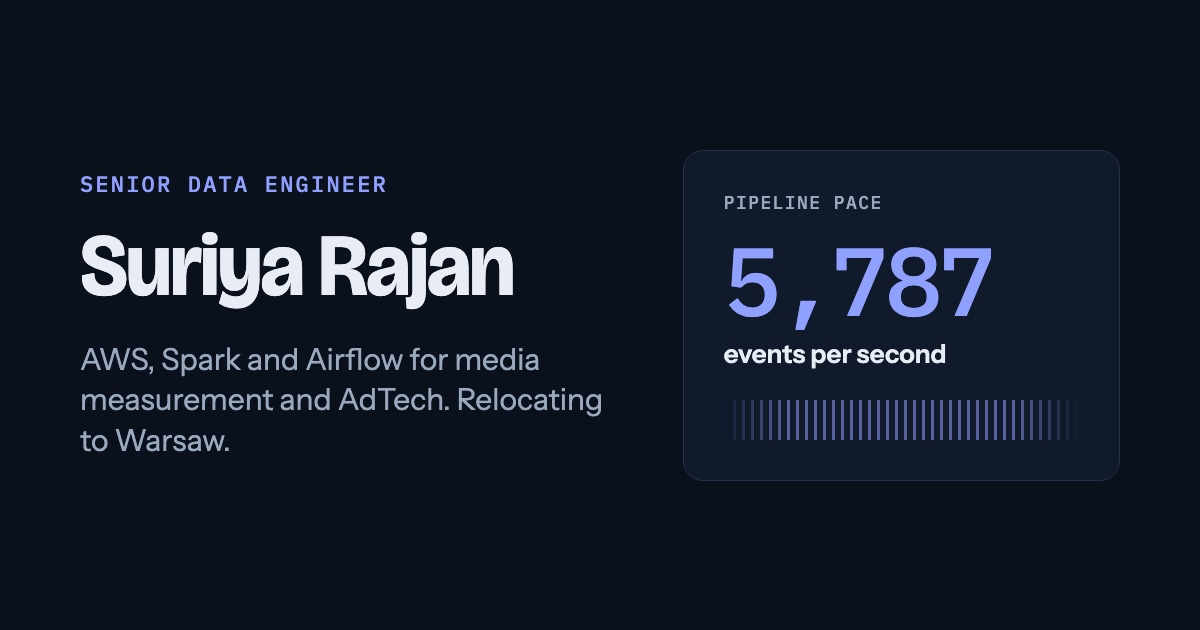
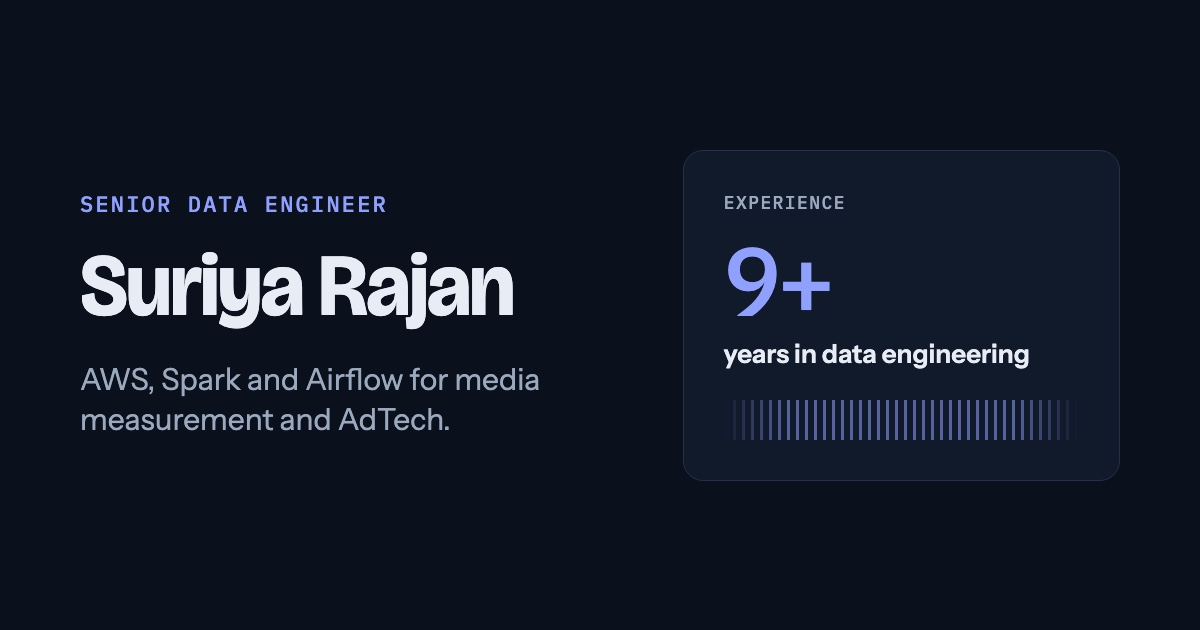
Refine copy: Experience meter, neutral contact, clearer role labels
- Replace the pipeline-pace counter with an Experience meter counting days
  and seconds since 8 August 2017 (static under prefers-reduced-motion)
- Remove the 500M+ events/day figure from copy, metadata, outcomes and the
  Nielsen bullet; outcomes row now cites 1-1.5 TB per daily pipeline
- Remove EU hiring, availability, relocation and work-permit messaging from
  the hero, contact section and metadata; contact heading is "Get in touch"
- Rename role state labels to Current and Completed
- Regenerate og-image.jpg and update its alt text

Changed region(s): [[0.0617, 0.2714, 0.5242, 0.7238], [0.5858, 0.3921, 0.8633, 0.6032], [0.6167, 0.3016, 0.74, 0.3317]]

diff --git a/index.html b/index.html
@@ -6,7 +6,7 @@
   <meta name="viewport" content="width=device-width, initial-scale=1" />
   <title>Suriya Rajan — Senior Data Engineer (AWS, Spark, Airflow)</title>
   <meta name="description"
-    content="Senior data engineer with 9 years on AWS. Spark and Airflow pipelines at 500M+ events a day for media measurement and AdTech. Relocating to Warsaw, available in 30 days." />
+    content="Senior data engineer with 9 years on AWS. Spark and Airflow pipelines, Terraform since 2019, for media measurement and AdTech." />
   <link rel="canonical" href="https://ayiruszone.github.io/" />
   <meta name="author" content="Suriya Rajan" />
   <meta name="theme-color" content="#F4F6F9" media="(prefers-color-scheme: light)" />
@@ -16,12 +16,12 @@
   <meta property="og:type" content="profile" />
   <meta property="og:title" content="Suriya Rajan — Senior Data Engineer" />
   <meta property="og:description"
-    content="9 years on AWS. Spark and Airflow at 500M+ events a day for media measurement and AdTech. Relocating to Warsaw." />
+    content="9 years on AWS. Spark and Airflow pipelines for media measurement and AdTech." />
   <meta property="og:url" content="https://ayiruszone.github.io/" />
   <meta property="og:image" content="https://ayiruszone.github.io/og-image.jpg" />
   <meta property="og:image:width" content="1200" />
   <meta property="og:image:height" content="630" />
-  <meta property="og:image:alt" content="Suriya Rajan, senior data engineer, with a pipeline pace meter reading 5,787 events per second." />
+  <meta property="og:image:alt" content="Suriya Rajan, senior data engineer, 9+ years in data engineering on AWS." />
   <meta property="og:site_name" content="Suriya Rajan" />
   <meta name="twitter:card" content="summary_large_image" />
 
@@ -92,35 +92,33 @@
         <p class="eyebrow"><span lang="ta">வணக்கம்</span> · Hello, I'm Suriya Rajan</p>
         <h1 id="top">Senior data engineer for media measurement and AdTech.</h1>
         <p class="lede">
-          Nine years on AWS building and tuning data platforms. Spark and Airflow at 500M+ events a day,
+          Nine years on AWS building and tuning data platforms. Spark and Airflow in production,
           Terraform since 2019, and recent work in serverless integration, RAG chatbots and BI migration.
         </p>
         <div class="actions">
           <a class="btn btn--primary" href="mailto:suriyarajan12@gmail.com">Email me</a>
           <a class="btn" href="Suriya_Rajan_CV.pdf" download>Download CV (PDF)</a>
         </div>
-        <ul class="facts" aria-label="Availability">
-          <li><span class="facts__label">Based in</span> Bangalore, India, relocating to Warsaw</li>
-          <li><span class="facts__label">Available</span> in 30 days</li>
-          <li><span class="facts__label">Work permit</span> Needs EU Blue Card or sponsorship</li>
+        <ul class="facts" aria-label="Location and languages">
+          <li><span class="facts__label">Based in</span> Bangalore, India</li>
+          <li><span class="facts__label">Languages</span> English (fluent), Tamil (native)</li>
         </ul>
       </div>
 
       <div class="meter" role="group" aria-labelledby="meter-title">
-        <p class="meter__label" id="meter-title">Pipeline pace</p>
+        <p class="meter__label" id="meter-title">Experience</p>
         <p class="meter__rate">
-          <span class="meter__num">5,787</span>
-          <span class="meter__unit">events per second</span>
+          <span class="meter__num" id="meter-days">9+</span>
+          <span class="meter__unit" id="meter-unit">years in data engineering</span>
         </p>
         <div class="meter__lane" aria-hidden="true"></div>
-        <p class="meter__total" id="meter-total-row">
-          Since you opened this page
-          <span class="meter__count" id="meter-total" aria-hidden="true">0</span>
-          <span>events</span>
+        <p class="meter__total" id="meter-seconds-row" hidden>
+          That's
+          <span class="meter__count" id="meter-seconds" aria-hidden="true">0</span>
+          <span>seconds, and counting</span>
         </p>
         <p class="meter__note">
-          A simulation of 500M+ events a day, the volume of the Nielsen Connected TV ad-ratings platform
-          I owned. Not live data.
+          Counted from 8 August 2017, when I joined Tata Consultancy Services.
         </p>
       </div>
     </section>
@@ -157,8 +155,8 @@
           <span class="ledger__where">TCS (Nielsen)</span>
         </li>
         <li>
-          <strong class="ledger__result">500M+ events a day</strong>
-          <span class="ledger__what">Owned the platform: two daily pipelines at 1–1.5 TB each, plus 3–5 ad hoc pipelines of 50–300 GB.</span>
+          <strong class="ledger__result">1–1.5 TB per daily pipeline</strong>
+          <span class="ledger__what">Owned the Connected TV ad-ratings platform: two major daily pipelines at that size, plus 3–5 ad hoc pipelines of 50–300 GB.</span>
           <span class="ledger__where">Nielsen</span>
         </li>
       </ul>
@@ -169,16 +167,15 @@
         <p class="kicker">Experience</p>
         <h2 id="experience-title">Five roles, newest first</h2>
         <p class="section__note">
-          Drawn as Airflow task states:
-          <span class="state-key state-key--running">running</span> is where I am now,
-          <span class="state-key state-key--success">success</span> is a role completed.
+          <span class="state-key state-key--running">Current</span> marks where I work now,
+          <span class="state-key state-key--success">Completed</span> marks earlier roles.
         </p>
       </header>
 
       <ol class="dag">
         <li class="task task--running">
           <div class="task__meta">
-            <p class="task__state">Running</p>
+            <p class="task__state">Current</p>
             <p class="task__dates"><time datetime="2026-04">Apr 2026</time> – Present</p>
             <p class="task__place">Remote</p>
           </div>
@@ -201,7 +198,7 @@
 
         <li class="task task--success">
           <div class="task__meta">
-            <p class="task__state">Success</p>
+            <p class="task__state">Completed</p>
             <p class="task__dates"><time datetime="2023-06">Jun 2023</time> – <time datetime="2026-02">Feb 2026</time></p>
             <p class="task__place">Bangalore</p>
           </div>
@@ -210,7 +207,7 @@
             <h3>Data Engineer (Member of Technical Staff II)</h3>
             <p class="task__org">Nielsen, DAR CTV</p>
             <ul>
-              <li>Owned the AWS data platform (EMR Serverless, S3, Airflow) behind Nielsen's Connected TV Digital Ad Ratings, covering ingestion, transformation and reporting for 500M+ daily events. Scope: 2 major daily pipelines at 1 to 1.5 TB each, plus 3 to 5 ad hoc pipelines of 50 to 300 GB.</li>
+              <li>Owned the AWS data platform (EMR Serverless, S3, Airflow) behind Nielsen's Connected TV Digital Ad Ratings, covering ingestion, transformation and reporting. Scope: 2 major daily pipelines at 1 to 1.5 TB each, plus 3 to 5 ad hoc pipelines of 50 to 300 GB.</li>
               <li>Cut compute cost by 40% by moving hourly Spark jobs from 5-node r4.4xlarge EMR clusters (billed for spin-up and spin-down) to EMR Serverless, which charges only for job runtime. Also right-sized executors and tuned dynamic allocation.</li>
               <li>Upgraded 15+ Spark 2.x ETL jobs to Spark 3.x and enabled Adaptive Query Execution and dynamic partition pruning, making runs at least 30% faster with lower memory use.</li>
               <li>Redesigned the Airflow DAGs for CTV ingestion with retries and structured alerting, which improved SLA adherence and shortened recovery time after failures.</li>
@@ -222,7 +219,7 @@
 
         <li class="task task--success">
           <div class="task__meta">
-            <p class="task__state">Success</p>
+            <p class="task__state">Completed</p>
             <p class="task__dates"><time datetime="2021-12">Dec 2021</time> – <time datetime="2023-06">Jun 2023</time></p>
             <p class="task__place">Remote</p>
           </div>
@@ -242,7 +239,7 @@
 
         <li class="task task--success">
           <div class="task__meta">
-            <p class="task__state">Success</p>
+            <p class="task__state">Completed</p>
             <p class="task__dates"><time datetime="2019-08">Aug 2019</time> – <time datetime="2021-12">Dec 2021</time></p>
             <p class="task__place">Chennai</p>
           </div>
@@ -261,7 +258,7 @@
 
         <li class="task task--success">
           <div class="task__meta">
-            <p class="task__state">Success</p>
+            <p class="task__state">Completed</p>
             <p class="task__dates"><time datetime="2017-08">Aug 2017</time> – <time datetime="2019-08">Aug 2019</time></p>
             <p class="task__place">Chennai</p>
           </div>
@@ -382,12 +379,9 @@
     <section class="section wrap contact" id="contact" aria-labelledby="contact-title">
       <header class="section__head">
         <p class="kicker">Contact</p>
-        <h2 id="contact-title">Hiring for data platform roles in the EU?</h2>
+        <h2 id="contact-title">Get in touch</h2>
       </header>
       <a class="contact__mail" href="mailto:suriyarajan12@gmail.com">suriyarajan12@gmail.com</a>
-      <p class="contact__note">
-        Available in 30 days. Relocating to Warsaw. Requires EU Blue Card or work permit sponsorship.
-      </p>
       <ul class="contact__links">
         <li><a href="https://www.linkedin.com/in/suriyarajan" target="_blank" rel="noopener noreferrer">LinkedIn<span class="sr-only"> (opens in a new tab)</span></a></li>
         <li><a href="https://github.com/AyirusZone" target="_blank" rel="noopener noreferrer">GitHub<span class="sr-only"> (opens in a new tab)</span></a></li>

diff --git a/script.js b/script.js
@@ -24,29 +24,29 @@
   syncToggle();
 })();
 
-// Pipeline pace meter: 500M events a day is about 5,787 events a second.
+// Experience meter: counts from my first day at TCS (8 August 2017, UTC).
 (function () {
-  var EVENTS_PER_SECOND = 500000000 / 86400;
-  var total = document.getElementById('meter-total');
-  var row = document.getElementById('meter-total-row');
+  var START = Date.UTC(2017, 7, 8);
+  var daysEl = document.getElementById('meter-days');
+  var unitEl = document.getElementById('meter-unit');
+  var row = document.getElementById('meter-seconds-row');
+  var secondsEl = document.getElementById('meter-seconds');
   var reduceMotion = window.matchMedia('(prefers-reduced-motion: reduce)').matches;
+  var format = new Intl.NumberFormat();
+
+  function paint() {
+    var seconds = Math.floor((Date.now() - START) / 1000);
+    daysEl.textContent = format.format(Math.floor(seconds / 86400));
+    unitEl.textContent = 'days in data engineering';
+    secondsEl.textContent = format.format(seconds);
+  }
+
+  paint();
 
   if (reduceMotion) {
-    row.hidden = true;
     return;
   }
 
-  var format = new Intl.NumberFormat();
-  var start = performance.now();
-  var lastPaint = 0;
-
-  function frame(now) {
-    if (now - lastPaint >= 100) {
-      lastPaint = now;
-      total.textContent = format.format(Math.floor((now - start) / 1000 * EVENTS_PER_SECOND));
-    }
-    requestAnimationFrame(frame);
-  }
-
-  requestAnimationFrame(frame);
+  row.hidden = false;
+  setInterval(paint, 250);
 })();
